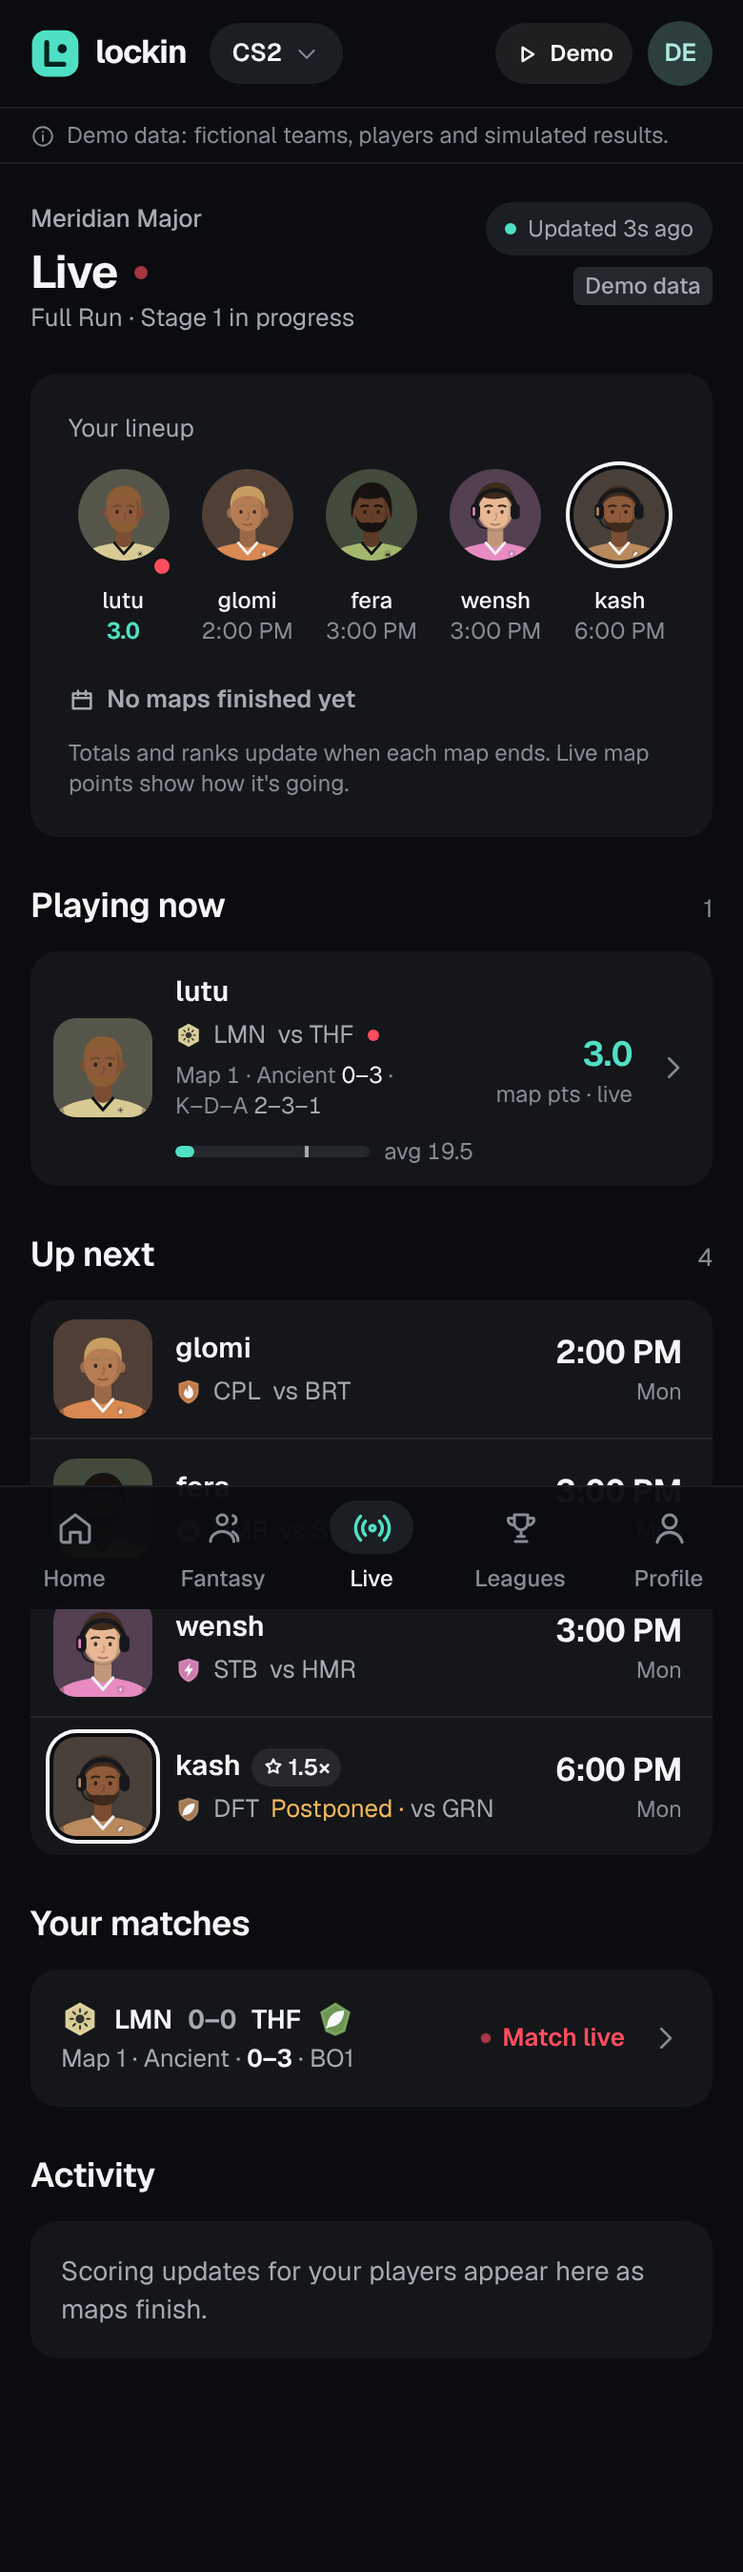
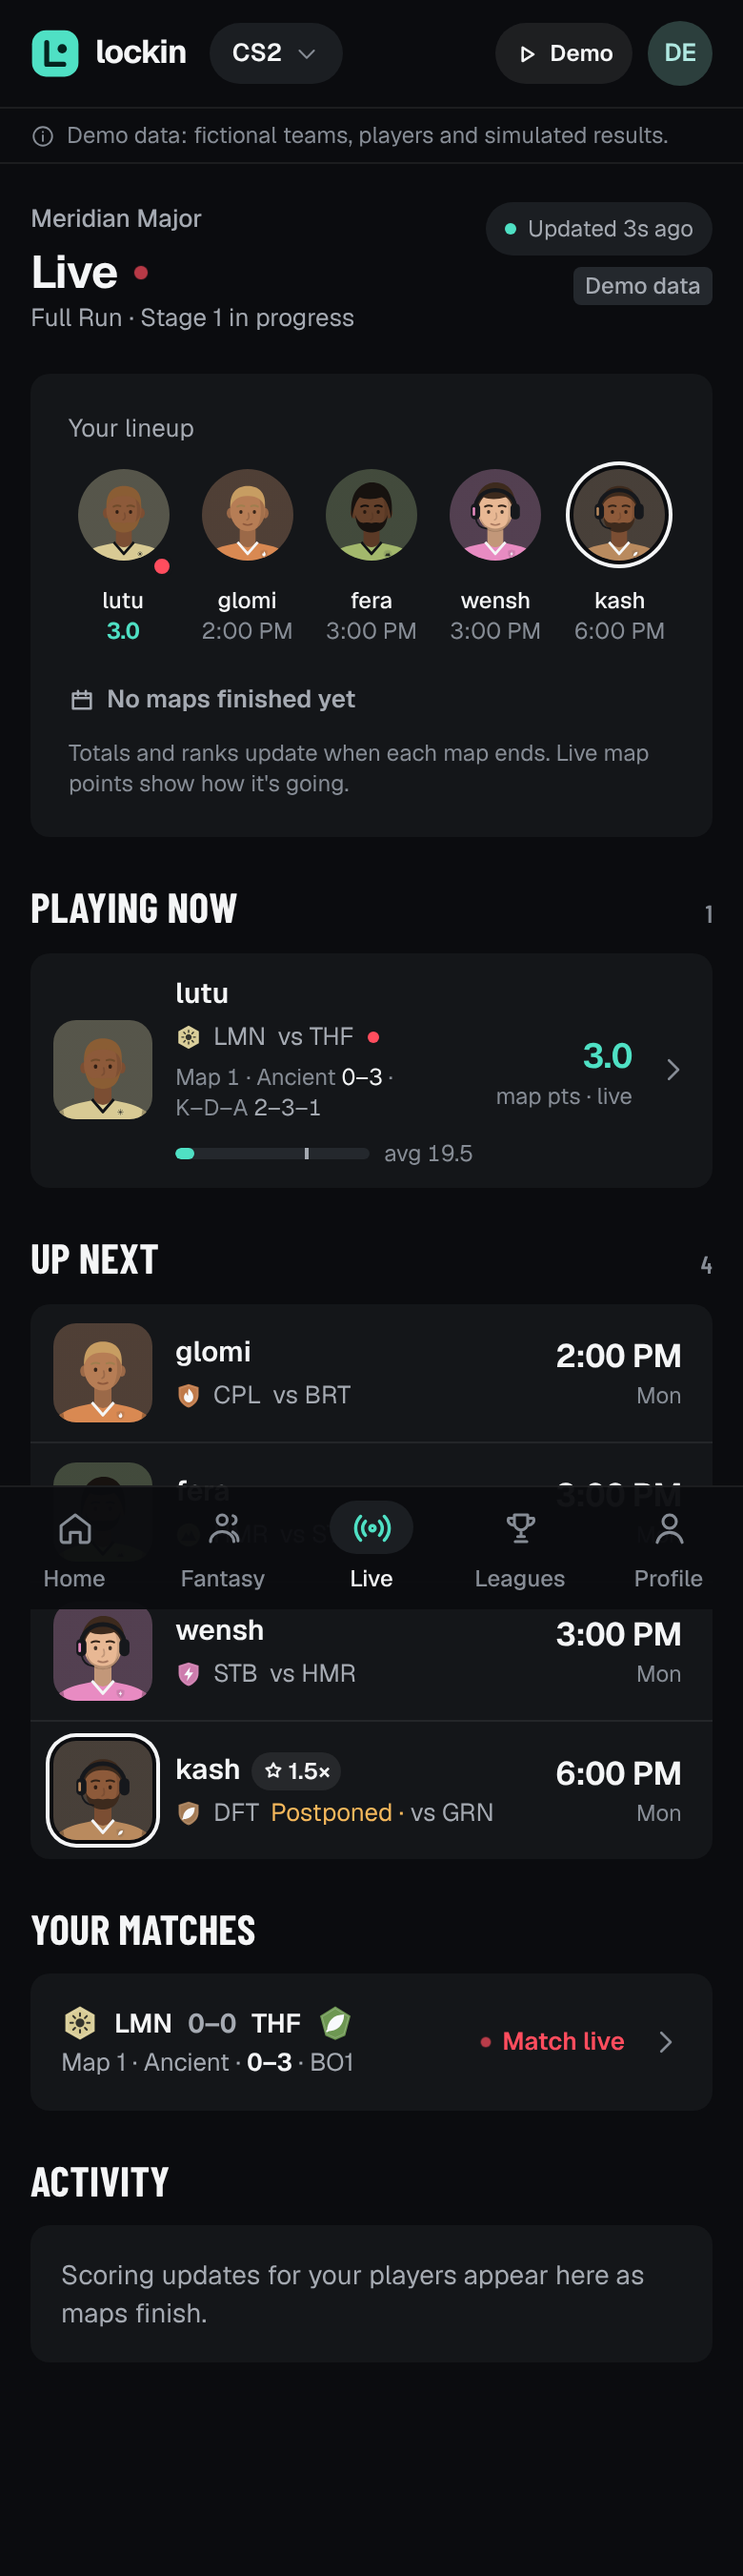
Editorial pass: esports-media type and tighter radii (DESIGN.md v1.6)
- Section headings in the condensed display face, caps
- Match metadata as monospace caps (.kicker)
- Radii tightened (3-10px), buttons 6-8px; nested segment radii fixed
- "Three steps to play" explainer title
- Screenshots regenerated

Claude-Session: https://claude.ai/code/session_01F4eWz66hryEHBWr1EjQ3X7

diff --git a/src/components/live/MatchCenterView.tsx b/src/components/live/MatchCenterView.tsx
@@ -40,7 +40,7 @@ export function MatchCenterView({ initial }: { initial: MatchCenter }) {
       </Link>
       <section className="rounded-2xl bg-surface p-5">
         <div className="flex items-center gap-2 text-caption text-ink-3">
-          <span className="truncate">
+          <span className="kicker truncate">
             {m.tournament.name} · {m.stageName} · BO{m.format}
           </span>
           <span className="ml-auto flex items-center gap-2">
@@ -88,7 +88,7 @@ export function MatchCenterView({ initial }: { initial: MatchCenter }) {
               role="tab"
               aria-selected={tab === g.number}
               onClick={() => setTab(g.number)}
-              className={cn("h-10 min-w-[96px] flex-1 rounded-[10px] px-3 text-footnote font-semibold whitespace-nowrap", tab === g.number ? "bg-raised text-ink" : "text-ink-2 hover:text-ink")}
+              className={cn("h-10 min-w-[96px] flex-1 rounded-md px-3 text-footnote font-semibold whitespace-nowrap", tab === g.number ? "bg-raised text-ink" : "text-ink-2 hover:text-ink")}
             >
               {g.mapName} <span className="num text-ink-3">{g.roundsA}–{g.roundsB}</span>
             </button>
@@ -98,7 +98,7 @@ export function MatchCenterView({ initial }: { initial: MatchCenter }) {
               role="tab"
               aria-selected={tab === "live"}
               onClick={() => setTab("live")}
-              className={cn("inline-flex h-10 min-w-[96px] flex-1 items-center justify-center gap-1.5 rounded-[10px] px-3 text-footnote font-semibold whitespace-nowrap", tab === "live" ? "bg-raised text-ink" : "text-ink-2 hover:text-ink")}
+              className={cn("inline-flex h-10 min-w-[96px] flex-1 items-center justify-center gap-1.5 rounded-md px-3 text-footnote font-semibold whitespace-nowrap", tab === "live" ? "bg-raised text-ink" : "text-ink-2 hover:text-ink")}
             >
               <span className="size-1.5 rounded-full bg-live" aria-hidden /> {m.live.mapName}
             </button>

diff --git a/src/app/globals.css b/src/app/globals.css
@@ -41,11 +41,12 @@
   --font-display: var(--font-barlow-condensed), var(--font-geist-sans), ui-sans-serif, sans-serif;
 
   /* Radius by role: 6–8 utility, 12 cards and rows, 16 the one hero container, pill for actions. */
-  --radius-sm: 6px;
-  --radius-md: 8px;
-  --radius-lg: 10px;
-  --radius-xl: 12px;
-  --radius-2xl: 14px;
+  /* v1.6: tighter, editorial radii (esports media, not a generic app template). */
+  --radius-sm: 3px;
+  --radius-md: 5px;
+  --radius-lg: 6px;
+  --radius-xl: 8px;
+  --radius-2xl: 10px;
 
   --ease-out-soft: cubic-bezier(0.22, 1, 0.36, 1);
   --ease-spring: cubic-bezier(0.34, 1.4, 0.64, 1);
@@ -128,11 +129,14 @@
     font-weight: 660;
     letter-spacing: -0.02em;
   }
+  /* Section headings: the condensed display face in caps, like a sports-media section label. */
   .text-section {
-    font-size: 1.125rem;
+    font-family: var(--font-display);
+    font-size: 1.375rem;
     line-height: 1.5rem;
-    font-weight: 620;
-    letter-spacing: -0.012em;
+    font-weight: 700;
+    letter-spacing: 0.005em;
+    text-transform: uppercase;
   }
   .text-headline {
     font-size: 1rem;
@@ -162,6 +166,15 @@
     line-height: 1.125rem;
     font-weight: 500;
     letter-spacing: 0;
+  }
+  /* Data kicker: monospace caps for match metadata (BO3 · Stage 2 · 14:00), the broadcast-graphics voice. */
+  .kicker {
+    font-family: var(--font-mono);
+    font-size: 0.6875rem;
+    line-height: 1rem;
+    font-weight: 500;
+    letter-spacing: 0.06em;
+    text-transform: uppercase;
   }
   /* Big score: the display face, tabular. */
   .text-score {

diff --git a/src/app/(main)/page.tsx b/src/app/(main)/page.tsx
@@ -182,7 +182,7 @@ function TournamentHero({ t, contest, now, nowIso }: { t: TournamentSummary; con
       <EventArt seed={t.slug} title={t.shortName.split(" ")[0]!} accent={accent} className="pointer-events-none absolute inset-0" />
       <div className="relative flex min-h-[236px] flex-col p-5 sm:min-h-[272px] sm:p-7 lg:min-h-[296px] lg:p-8">
         <div className="flex items-center gap-2">
-          <span className="text-eyebrow text-ink-2">CS2 · {TIER_LABEL[t.tier]}</span>
+          <span className="kicker text-ink-2">CS2 · {TIER_LABEL[t.tier]}</span>
           {t.isDemo ? <DemoBadge className="ml-auto" /> : null}
         </div>
         <div className="mt-auto pt-10">
@@ -298,7 +298,7 @@ function FirstEntryPrompt({ c }: { c: ContestView | null }) {
   ];
   return (
     <div className="rounded-2xl bg-surface p-4 sm:p-5">
-      <p className="text-headline text-ink">How it works</p>
+      <p className="text-headline text-ink">Three steps to play</p>
       <ol className="mt-4 space-y-4">
         {steps.map((st, i) => (
           <li key={st.title} className="flex gap-3.5">

diff --git a/src/components/builder/Filters.tsx b/src/components/builder/Filters.tsx
@@ -184,7 +184,7 @@ export function FilterPanel({ data, filters, setFilters }: { data: BuilderData; 
         <ul className="space-y-0.5">
           {SORTS.map((s) => (
             <li key={s.key}>
-              <button onClick={() => setFilters({ ...filters, sort: s.key })} aria-pressed={filters.sort === s.key} className={cn("flex h-10 w-full items-center justify-between rounded-[10px] px-3 text-left text-callout", filters.sort === s.key ? "bg-elevated font-semibold text-ink" : "text-ink-2 hover:bg-surface")}>
+              <button onClick={() => setFilters({ ...filters, sort: s.key })} aria-pressed={filters.sort === s.key} className={cn("flex h-10 w-full items-center justify-between rounded-md px-3 text-left text-callout", filters.sort === s.key ? "bg-elevated font-semibold text-ink" : "text-ink-2 hover:bg-surface")}>
                 {s.label}
                 {filters.sort === s.key ? <Icon name="check" size={15} className="text-accent" /> : null}
               </button>

diff --git a/src/components/tournament/MatchRow.tsx b/src/components/tournament/MatchRow.tsx
@@ -23,9 +23,9 @@ export function MatchRow({ m, teams, compact }: { m: MatchLite; teams: Record<st
   };
   return (
     <div className="rounded-xl bg-surface px-3.5 py-3">
-      <div className="mb-2 flex items-center gap-2 text-caption text-ink-3">
+      <div className="kicker mb-2 flex items-center gap-2 text-ink-3">
         <span>BO{m.format}</span>
-        {m.slot !== "swiss" ? <span className="capitalize">· {m.slot}</span> : <span>· Round {m.round}</span>}
+        {m.slot !== "swiss" ? <span>· {m.slot}</span> : <span>· Round {m.round}</span>}
         <span className="ml-auto">
           {m.status === "live" ? (
             <StatePill kind="live" />

diff --git a/src/components/board/Leaderboard.tsx b/src/components/board/Leaderboard.tsx
@@ -70,7 +70,7 @@ export function Leaderboard({ contestId, initial, scopes, viewerId }: { contestI
                 void load(s.key, 1);
               }}
               className={cn(
-                "inline-flex h-10 min-w-[88px] flex-auto shrink-0 items-center justify-center rounded-[10px] px-3 text-footnote font-semibold whitespace-nowrap transition-colors",
+                "inline-flex h-10 min-w-[88px] flex-auto shrink-0 items-center justify-center rounded-md px-3 text-footnote font-semibold whitespace-nowrap transition-colors",
                 scope === s.key ? "bg-raised text-ink" : "text-ink-2 hover:text-ink",
               )}
             >

diff --git a/src/components/ui/Panels.tsx b/src/components/ui/Panels.tsx
@@ -23,7 +23,7 @@ export function Panels({ panels, initial, label, gridClass = "lg:grid-cols-3" }:
                 setActive(p.id);
               }}
               className={cn(
-                "inline-flex h-9 min-w-[72px] flex-auto shrink-0 items-center justify-center rounded-[10px] px-3 text-footnote font-semibold whitespace-nowrap transition-colors",
+                "inline-flex h-9 min-w-[72px] flex-auto shrink-0 items-center justify-center rounded-md px-3 text-footnote font-semibold whitespace-nowrap transition-colors",
                 active === p.id ? "bg-raised text-ink" : "text-ink-2 hover:text-ink",
               )}
             >

diff --git a/src/app/(main)/t/[slug]/layout.tsx b/src/app/(main)/t/[slug]/layout.tsx
@@ -20,7 +20,7 @@ export default async function TournamentLayout({ children, params }: { children:
         <EventArt seed={t.slug} title={t.shortName.split(" ")[0]!} accent={accent} banner className="pointer-events-none absolute inset-0" />
         <div className="relative">
           <div className="flex flex-wrap items-center gap-2">
-            <span className="text-eyebrow" style={{ color: accent }}>
+            <span className="kicker" style={{ color: accent }}>
               Counter-Strike 2 · {TIER_LABEL[t.tier]}
             </span>
             {t.isDemo ? <DemoBadge /> : null}

diff --git a/src/components/ui/Button.tsx b/src/components/ui/Button.tsx
@@ -18,9 +18,9 @@ const variants: Record<Variant, string> = {
 };
 
 const sizes: Record<Size, string> = {
-  sm: "h-9 px-3.5 text-[0.8125rem] rounded-[10px]",
-  md: "h-11 px-4.5 text-[0.9375rem] rounded-xl",
-  lg: "h-[52px] px-6 text-base rounded-[14px]",
+  sm: "h-9 px-3.5 text-[0.8125rem] rounded-lg",
+  md: "h-11 px-4.5 text-[0.9375rem] rounded-lg",
+  lg: "h-[52px] px-6 text-base rounded-xl",
 };
 
 export interface ButtonProps extends ButtonHTMLAttributes<HTMLButtonElement> {

diff --git a/src/components/ui/primitives.tsx b/src/components/ui/primitives.tsx
@@ -10,7 +10,7 @@ export function Card({ children, className, as: As = "div" }: { children: ReactN
 export function SectionHeader({ title, action, className, id }: { title: string; action?: ReactNode; className?: string; id?: string }) {
   return (
     <div className={cn("mb-3 flex items-end justify-between gap-3", className)}>
-      <h2 id={id} className="text-headline text-ink">
+      <h2 id={id} className="text-section text-ink">
         {title}
       </h2>
       {action}

diff --git a/docs/DESIGN.md b/docs/DESIGN.md
@@ -1,6 +1,6 @@
 # Esports Fantasy — Product Design System & UX Specification
 
-**Status:** Working design source of truth · **Version:** 1.5 (see [changelog](#changelog)) · **Primary platform:** Mobile web / iPhone first · **Launch esport:** CS2
+**Status:** Working design source of truth · **Version:** 1.6 (see [changelog](#changelog)) · **Primary platform:** Mobile web / iPhone first · **Launch esport:** CS2
 
 > **North star:** *Sleeper esports personality, refined with the restraint, clarity, and precision of a top-tier iOS app.* Player-first. Competition-first. Calm surfaces, vivid content, exquisite interaction details. The app must feel intentionally designed rather than generated from a generic dashboard template.
 
@@ -102,7 +102,7 @@ Use **Inter**, **Geist**, or a similar carefully rendered, highly legible modern
 - Standard vertical section spacing: **24px**; related card row spacing: **8–12px**.
 - Standard interactive control height: **44–48px**; primary CTA: **50–54px**.
 - Compact rows: **68–80px**, never a 40px press target.
-- Radius by role (v1.2): **6–8px** utility, **12–14px** cards and portrait tiles, **16px** for the one hero container, **full pill** for actions, chips and avatars. Nothing in between.
+- Radius by role (v1.6): **3–5px** tags and inner segments, **6–8px** buttons and inputs, **8–10px** cards, portrait tiles and the hero container; full circles only for avatars and status dots.
 - Containers have no border (v1.2): separate by a surface step or by space. 1px hairlines only between rows. Shadow only on things that float (sheets, toasts, the sticky "you" row).
 - Navigation bar: approximately **64–72px content height** + bottom safe area.
 - iOS safe areas: `env(safe-area-inset-top)` and `env(safe-area-inset-bottom)` where applicable.
@@ -125,7 +125,7 @@ Use **Inter**, **Geist**, or a similar carefully rendered, highly legible modern
 - Clear direct labels: **Build Team**, **View My Team**, **View Standings**, **Review Lineup**, **Submit Lineup**.
 - Use competition states exactly: **Open**, **Locks in 2h**, **Map in progress**, **Scores update after each map**, **Final**, **Transfers open**.
 - No fake “LIVE” badge for fantasy points that only refresh after each completed map. A match can be live while the fantasy score remains pending.
-- States are coloured text with an icon or dot, not pills (v1.2). At most one small badge style (4px radius) for tags such as Demo data. Labels above titles are sentence case, not tracked caps.
+- States are coloured text with an icon or dot, not pills (v1.2). At most one small badge style (4px radius) for tags such as Demo data. Labels above titles are sentence case; the one exception is match metadata, set as monospace caps (`.kicker`, v1.6).
 - Currency styling: use compact `$245K` on player rows, but full `$245,000` on details; maintain one semantic salary unit.
 
 ---
@@ -439,6 +439,7 @@ A brand-new esports fan should know what to do within seconds. A frequent fantas
 
 | Version | Change |
 |---|---|
+| 1.6 | Editorial pass, borrowing from esports media and league identities rather than app templates. Section headings use the condensed display face in caps, like a sports-media section label. Match metadata (BO3 · Stage 2, event kickers) is set in monospace caps, the broadcast-graphics voice, paired against the condensed display face, as Riot's Worlds 2022 identity pairs a compressed display face with a secondary one ([Tendril](https://www.stashmedia.tv/tendril-ramps-up-riot-worlds-2022-with-branding-toolkit/)). One vivid hue supports the type rather than decorating, as in LoL Esports' single "Iceborn blue" ([The New Company](https://the-brandidentity.com/project/the-new-companys-energetic-identity-system-for-lol-esports-avoids-typical-fantasy-gaming-tropes)). Radii tightened to 3–10px (buttons 6–8px): soft 14px corners everywhere read as a generic app template. Sheep Esports was requested as a reference, but its site could not be reached from the build environment, so nothing here is taken from it. |
 | 1.5 | Sign-in and sign-up are an app entry screen: a brand hero (illustrated fictional players, "Draft the pros. Follow every map.") above the form on phones, a split art panel and form on desktop; show/hide password; one-tap demo login in demo mode. Every text field is 16px, so iOS no longer zooms in on focus. First run: Home explains the game in three numbered steps built from the contest's own rules. Transfers: the review screen lists who leaves and who arrives against last stage's lineup, marking free swaps for eliminated players. Builder: "roster full" is shown once (status and tray), not repeated on every row; an eliminated player shows as a dimmed face with a red dot in the entry slip, with "1 out · Replace free"; the "roster full" toast only fires when the lineup is playable. One toast at a time. Score changes on Live get a brief mint highlight; the podium rises in, winner last. |
 | 1.4 | Mobile-first pass over every route. Bracket and Swiss standings show one round or stage at a time on phones (a segmented switcher opening on the current round), side by side from `lg`; no sideways page scrolling. Tournament tabs scroll the active tab into view and fade at the edge while more tabs are hidden. Match Center scoreboard: crests either side, series score in the display face, the loser's score dimmed. Text fields get a visible focus ring (they had none) and the invite field is visible on its card. Public leagues lead with the event, since community leagues share a name; big member lists show eight and expand on tap. Profile stats are flat tiles in the display face; usernames keep their case. The Fantasy tab leads with an open contest instead of an empty state. On touch screens, tapped links and tabs dim instantly, like native list cells. |
 | 1.3 | Polish pass. Bars over scrolling content are near-opaque (text no longer reads through the tab bar); the demo notice is a slim strip and the Demo data tag is solid. Event hero: type-poster art (§3.4) and the lock deadline as segmented day/hour/minute blocks in the display face. Live: before any map finishes, the score card shows your lineup (live dot and live map points, or start time) instead of empty dashes. Leaderboard: a top-three podium when the board has 10+ entries and no tie in the top three; fan avatars use low-chroma tints. Recap: placement as one big display number with a field-position track (last → 1st), points and captain bonus in the display face, MVP and best value as portrait tiles. Form chart bars are mint when at or above the shown average. Salary left uses the display face. |
